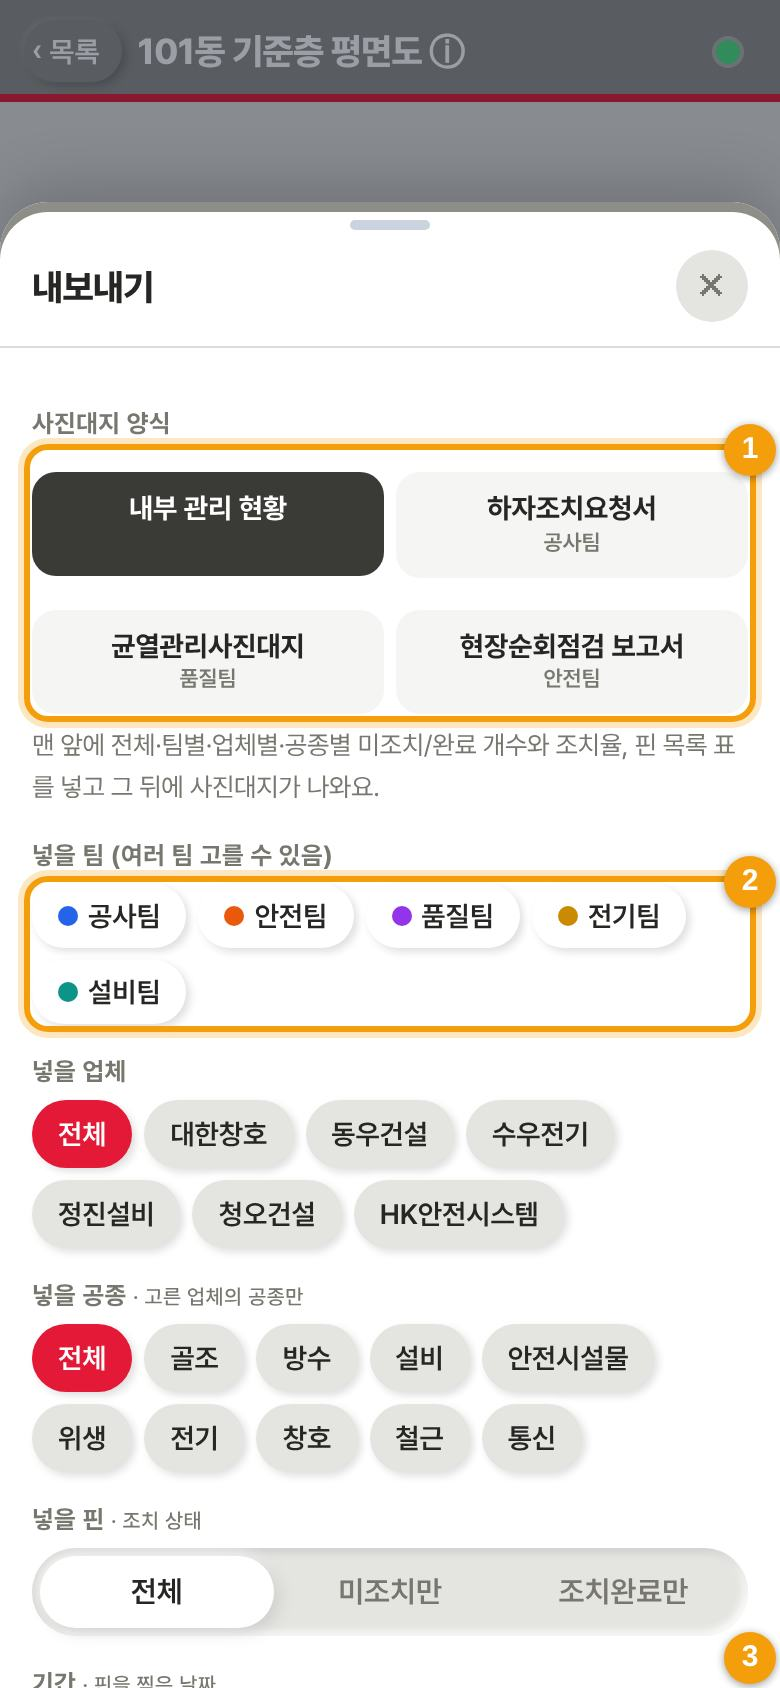
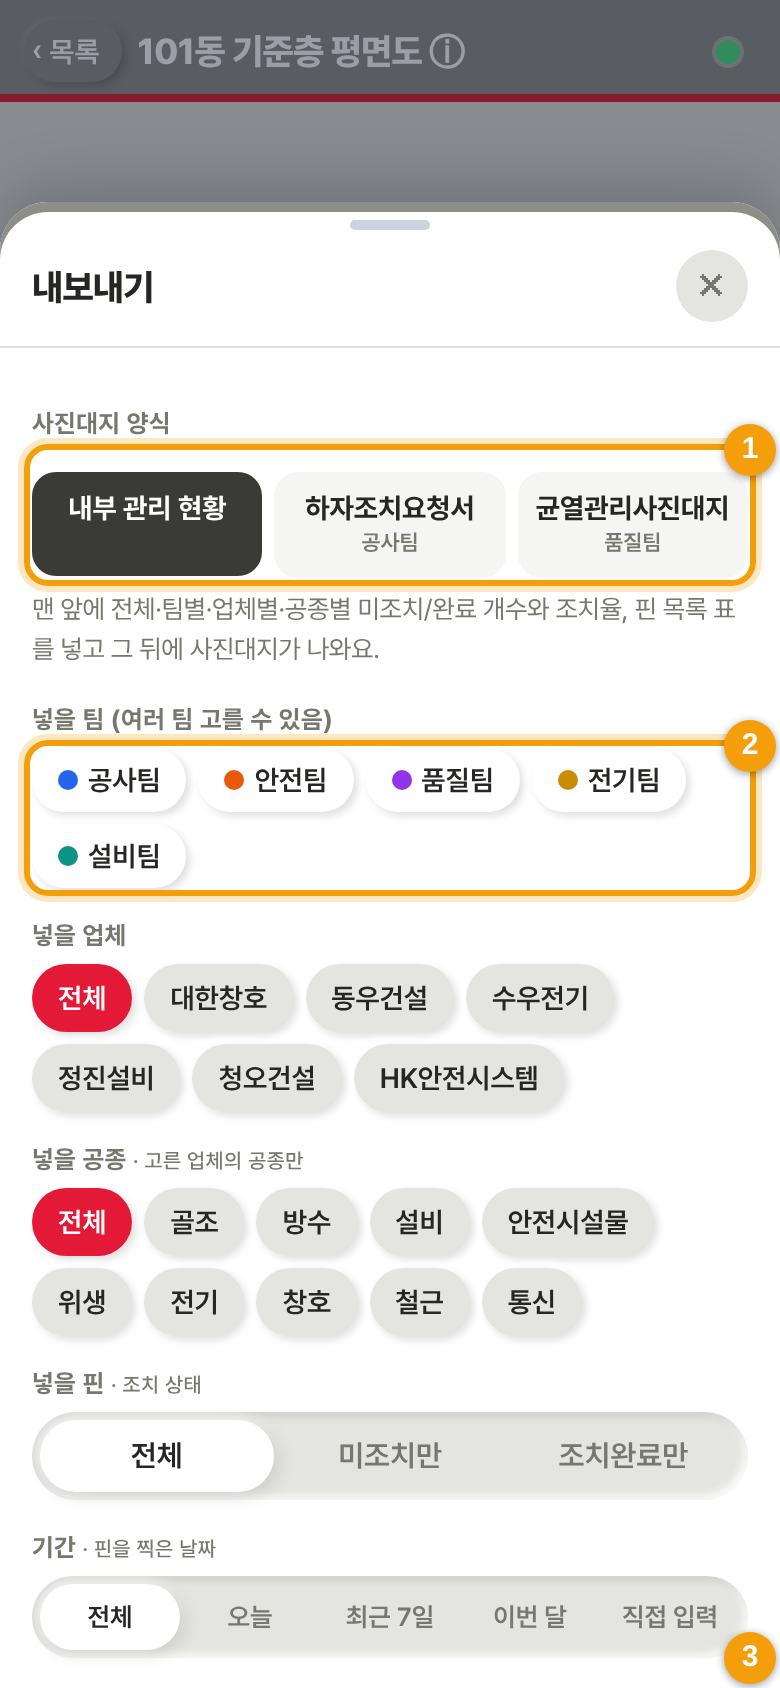
3.90 내보내기 양식에서 현장순회점검 보고서 없앰 (#33)
Claude-Session: https://claude.ai/code/session_01EtHbhsZCrxUT5zDHCagWW6

Changed region(s): [[0.0, 0.2773, 1.0, 1.0]]

diff --git a/index.html b/index.html
@@ -685,7 +685,7 @@ body.lbOn #setDlg::after,body.lbOn #pwDlg::after{top:calc(env(safe-area-inset-to
 .ichip2{font-size:13px;font-weight:700;color:#E31937;background:#FCE4E7;border-radius:999px;padding:4px 12px}
 #sdBody select.inp{width:100%}
 /* 3.56 내보내기 */
-.tmgrid{display:grid;grid-template-columns:1fr 1fr;gap:6px}
+.tmgrid{display:grid;grid-template-columns:repeat(3,1fr);gap:6px}
 .tmgrid button{padding:10px 6px;border-radius:12px;background:var(--soft);font-weight:700;font-size:14px;color:var(--ink);display:flex;flex-direction:column;align-items:center;gap:1px;line-height:1.25}
 .tmgrid button small{font-size:11px;font-weight:600;color:var(--sub)}
 .tmgrid button.on{background:#3A3A37;color:#fff}.tmgrid button.on small{color:#D9D8D3}
@@ -1080,8 +1080,8 @@ i.lq>svg{position:absolute;left:0;top:0;width:100%;height:100%;overflow:visible}
     <div class="vchips" id="setTeam"></div>
     <div class="setsub">사진 화질 <small>사진 한 장 기준 저 약 0.2MB · 보통 약 0.6MB · 고 약 2MB</small></div>
     <div class="seg" id="setPhoto"><button data-v="low">저화질</button><button data-v="normal">보통</button><button data-v="high">고화질</button></div>
-    <div class="setsub">내보내기 기본 양식 <small>한 팀만 보고 있으면 그 팀 양식(공사 하자조치요청서 · 품질 균열관리 · 안전 순회점검)</small></div>
-    <div class="tmgrid" id="setTmpl"><button data-v="internal">내부 관리 현황</button><button data-v="vendor">하자조치요청서</button><button data-v="crack">균열관리사진대지</button><button data-v="patrol">현장순회점검 보고서</button></div>
+    <div class="setsub">내보내기 기본 양식 <small>한 팀만 보고 있으면 그 팀 양식(공사 하자조치요청서 · 품질 균열관리)</small></div>
+    <div class="tmgrid" id="setTmpl"><button data-v="internal">내부 관리 현황</button><button data-v="vendor">하자조치요청서</button><button data-v="crack">균열관리사진대지</button></div>
     <div class="setsub">사진대지에 넣을 사진</div>
     <div class="seg" id="setPh"><button data-v="0">대표 사진만</button><button data-v="1">사진 전부</button></div>
     <div class="setsub">저장 공간</div>
@@ -1152,7 +1152,7 @@ i.lq>svg{position:absolute;left:0;top:0;width:100%;height:100%;overflow:visible}
 
 <script>
 "use strict";
-const APP_VER = "3.89";
+const APP_VER = "3.90";
 const $=s=>document.querySelector(s);
 /* 쪽 이름(예: 지하 4층). 없으면 여러 쪽일 때 'N쪽' */
 const pgName=(d,n)=>((d&&d.pageNames&&d.pageNames[n-1])||"").trim();
@@ -1267,7 +1267,7 @@ function renderPrefs(){
   const mt=myPref("myTeam","");
   $("#setTeam").innerHTML=`<button class="vchip${mt?"":" on"}" data-mt="">마지막에 쓴 팀</button>`+TEAMS.map(([v,n,c])=>`<button class="vchip${mt===v?" on":""}" data-mt="${v}" style="${mt===v?`background:${c}`:""}">${n}</button>`).join("");
   const seg=(id,val)=>document.querySelectorAll(id+" button").forEach(b=>b.classList.toggle("on",b.dataset.v===val));
-  seg("#setPhoto",myPref("photoQ","normal")); seg("#setTmpl",["vendor","crack","patrol"].includes(myPref("expTmpl",""))?myPref("expTmpl",""):"internal"); seg("#setPh",myPref("expAllPhotos","0")==="1"?"1":"0");
+  seg("#setPhoto",myPref("photoQ","normal")); seg("#setTmpl",["vendor","crack"].includes(myPref("expTmpl",""))?myPref("expTmpl",""):"internal"); seg("#setPh",myPref("expAllPhotos","0")==="1"?"1":"0");
   $("#siteTxt").textContent=SITE||"(없음)";
 }
 $("#setTeam").addEventListener("click",e=>{ const b=e.target.closest("[data-mt]"); if(!b) return; setPref("myTeam",b.dataset.mt); renderPrefs(); });
@@ -3522,8 +3522,8 @@ $("#expBtn").addEventListener("click",async()=>{
 });
 /* 핀 표시 도면 + 사진대지 PDF를 만들어 보내기·저장 창을 띄운다 (도면 화면 내보내기, 목록 ⋯ 공유하기 공용) */
 /* 사진대지 양식: 팀마다 쓰는 서식 */
-const TMPLS=[["internal","내부 관리 현황","사진대지"],["vendor","하자조치요청서","조치요청서"],["crack","균열관리사진대지","균열관리사진대지"],["patrol","현장순회점검 보고서","순회점검보고서"]];
-const TEAM_TMPL={공사:"vendor",품질:"crack",안전:"patrol"};
+const TMPLS=[["internal","내부 관리 현황","사진대지"],["vendor","하자조치요청서","조치요청서"],["crack","균열관리사진대지","균열관리사진대지"]];
+const TEAM_TMPL={공사:"vendor",품질:"crack"};
 const crkOf=l=>{ const c=l.filter(p=>workOf(p)==="균열"); return c.length?c:l; };   // 균열 핀만 (균열 핀이 없으면 고른 핀 그대로)
 async function showExport(drawing,allPins,fromHome){
   const body=$("#expBody");

diff --git a/guide/index.html b/guide/index.html
@@ -300,7 +300,7 @@ footer{text-align:center;color:var(--sub);font-size:13px;padding:10px 16px 30px}
     </ol>
     <p><b>PDF 만들기</b></p>
     <ol class="marks">
-      <li data-n="1"><b>사진대지 양식</b>: <b>내부 관리 현황</b>(전체 현황표와 핀 목록), <b>하자조치요청서</b>(공사팀, 업체별로 묶음), <b>균열관리사진대지</b>(품질팀, 균열 관리 대장), <b>현장순회점검 보고서</b>(안전팀, 점검 개요·결재란·지적 사항). 팀을 하나만 고르면 그 팀 양식이 저절로 골라져요.</li>
+      <li data-n="1"><b>사진대지 양식</b>: <b>내부 관리 현황</b>(전체 현황표와 핀 목록), <b>하자조치요청서</b>(공사팀, 업체별로 묶음), <b>균열관리사진대지</b>(품질팀, 균열 관리 대장). 팀을 하나만 고르면 그 팀 양식이 저절로 골라져요.</li>
       <li data-n="2">넣을 <b>팀 · 업체 · 공종</b>은 도면 화면에서 골라 둔 그대로 시작해요(품질팀만 고르면 업체·공종 대신 <b>종류</b>). <b>넣을 핀</b>은 전체·미조치만·조치완료만에서 골라요. <b>하자조치요청서</b>는 처음부터 <b>미조치만</b>이고, 핀 번호를 팀 글자 없이 <b>1, 2, 3</b>처럼 숫자로만 넣어요. <b>기간</b>(오늘·최근 7일·이번 달·직접)으로 그 기간에 만든 핀만 넣을 수 있고, 넣을 사진(대표 사진만 / 사진 전부)도 골라요.</li>
       <li data-n="3"><b>미리보기</b>로 먼저 확인하고, <b>PDF 만들기</b> → 파일 이름 확인 → <b>보내기</b>로 메일·메신저 등에 바로 보내거나 파일에 저장해요.</li>
     </ol>

diff --git a/sw.js b/sw.js
@@ -1,5 +1,5 @@
 // 핀톡(도면 핀) 앱: 오프라인에서도 열리도록 앱 파일을 저장해 둔다 (도면·핀 기록은 IndexedDB에 따로 저장됨)
-const CACHE="pintalk-v113";
+const CACHE="pintalk-v114";
 const FILES=["./","./index.html","./manifest.webmanifest","./icon-180.png","./icon-192.png","./icon-512.png","./dwg2pdf.js","./sample.pdf","lib/pdfjs.min.js","lib/pdfjs.worker.min.js","lib/pdf-lib.min.js","lib/fontkit.umd.min.js","fonts/KoPubDotum-Medium.ttf","fonts/PretendardVariable.woff2","lib/exceljs.min.js","tpl/crack.xlsx"];
 self.addEventListener("install",e=>{e.waitUntil(caches.open(CACHE).then(c=>c.addAll(FILES.map(u=>new Request(u,{cache:"reload"})))));self.skipWaiting();});
 self.addEventListener("activate",e=>{e.waitUntil(caches.keys().then(ks=>Promise.all(ks.filter(k=>k.startsWith("pintalk-")&&k!==CACHE).map(k=>caches.delete(k)))));self.clients.claim();});
